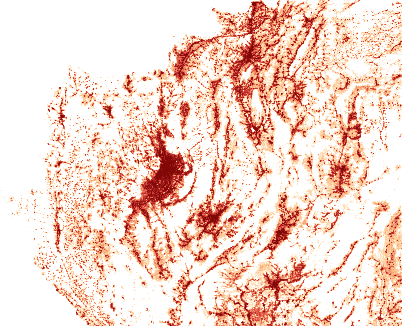
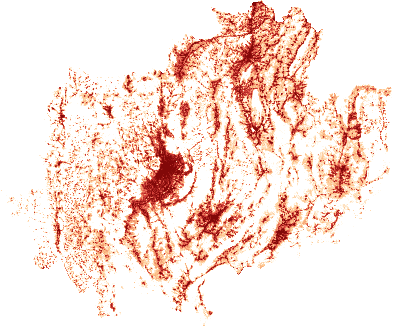
fix(buildings): clip density overlay to the 9-province AOI polygon
User asked: "Building footprint Clip เอาเฉพาะ ประเทศไทย."

Same fix as the wetness/live overlays: the Open Buildings density PNG
covered the full AOI bbox, which spilled into Myanmar / Laos border
cells. Pipeline 09_buildings_density.py now also rasterises the
dissolved 9-province polygon (aoi_north_thailand.geojson) onto the same
326×402 grid via rasterio.features.rasterize and uses it as a hard
alpha mask before the PNG is written.

Result: 16,587 cells (27.3 %) outside the AOI now render fully
transparent. PNG dropped from 244 KB → 179 KB.

diff --git a/pipeline/scripts/09_buildings_density.py b/pipeline/scripts/09_buildings_density.py
@@ -29,12 +29,16 @@ from datetime import datetime, timezone
 from pathlib import Path
 
 import click
+import geopandas as gpd
 import numpy as np
+from affine import Affine
 from PIL import Image
+from rasterio.features import rasterize
 from tqdm import tqdm
 
 REPO_ROOT = Path(__file__).resolve().parents[1]
 BBOX_PATH = REPO_ROOT / "data" / "aoi" / "aoi_bbox.json"
+AOI_PATH = REPO_ROOT / "data" / "aoi" / "aoi_north_thailand.geojson"
 BUILD_DIR = REPO_ROOT / "data" / "buildings"
 PUBLIC_DATA = REPO_ROOT.parent / "public" / "data"
 PUBLIC_DATA.mkdir(parents=True, exist_ok=True)
@@ -112,6 +116,32 @@ def main(step: float, ramp: str) -> None:
 
     click.echo(f"[total] {total:,} buildings; non-zero cells {(counts>0).sum():,}/{counts.size:,}")
 
+    # Rasterize the dissolved 9-province AOI polygon to the same grid so we
+    # can mask buildings that landed in Myanmar / Laos slivers of the bbox.
+    if AOI_PATH.exists():
+        click.echo(f"[mask] rasterising {AOI_PATH.name} to {ny}x{nx} grid")
+        aoi = gpd.read_file(AOI_PATH).to_crs("EPSG:4326")
+        # Origin at top-left (north_lat=miny+ny*step, west_lon=minx); pixel size = step.
+        north_lat = miny + ny * step
+        transform = Affine(step, 0, minx, 0, -step, north_lat)
+        aoi_mask = rasterize(
+            ((g, 1) for g in aoi.geometry),
+            out_shape=(ny, nx),
+            transform=transform,
+            fill=0,
+            dtype=np.uint8,
+        )
+        before = int((counts > 0).sum())
+        counts = np.where(aoi_mask > 0, counts, 0)
+        after = int((counts > 0).sum())
+        click.echo(
+            f"[mask] dropped {before - after:,} buildings outside AOI "
+            f"({100 * (before - after) / max(before, 1):.1f}%); kept {after:,}"
+        )
+    else:
+        aoi_mask = np.ones((ny, nx), dtype=np.uint8)
+        click.echo("[mask] AOI geojson missing — skipping clip")
+
     # Log-scale normalisation: density spans many orders of magnitude.
     log_counts = np.log1p(counts.astype(np.float32))
     p5 = float(np.quantile(log_counts[counts > 0], 0.05)) if (counts > 0).any() else 0.0
@@ -147,8 +177,12 @@ def main(step: float, ramp: str) -> None:
             rgb[..., ch] = np.where(m, c0[ch] + f * (c1[ch] - c0[ch]), rgb[..., ch])
     rgb = np.clip(rgb, 0, 255).astype(np.uint8)
 
-    # Alpha: hide empty cells; ramp up with density. Use sqrt for smoother edges.
-    alpha = np.where(counts > 0, np.clip(80 + 175 * np.sqrt(t), 0, 255), 0).astype(np.uint8)
+    # Alpha: hide empty cells AND cells outside AOI; ramp up with density.
+    alpha = np.where(
+        (counts > 0) & (aoi_mask > 0),
+        np.clip(80 + 175 * np.sqrt(t), 0, 255),
+        0,
+    ).astype(np.uint8)
 
     rgba = np.dstack([rgb, alpha])
     Image.fromarray(rgba, "RGBA").save(PNG_OUT, optimize=True)
